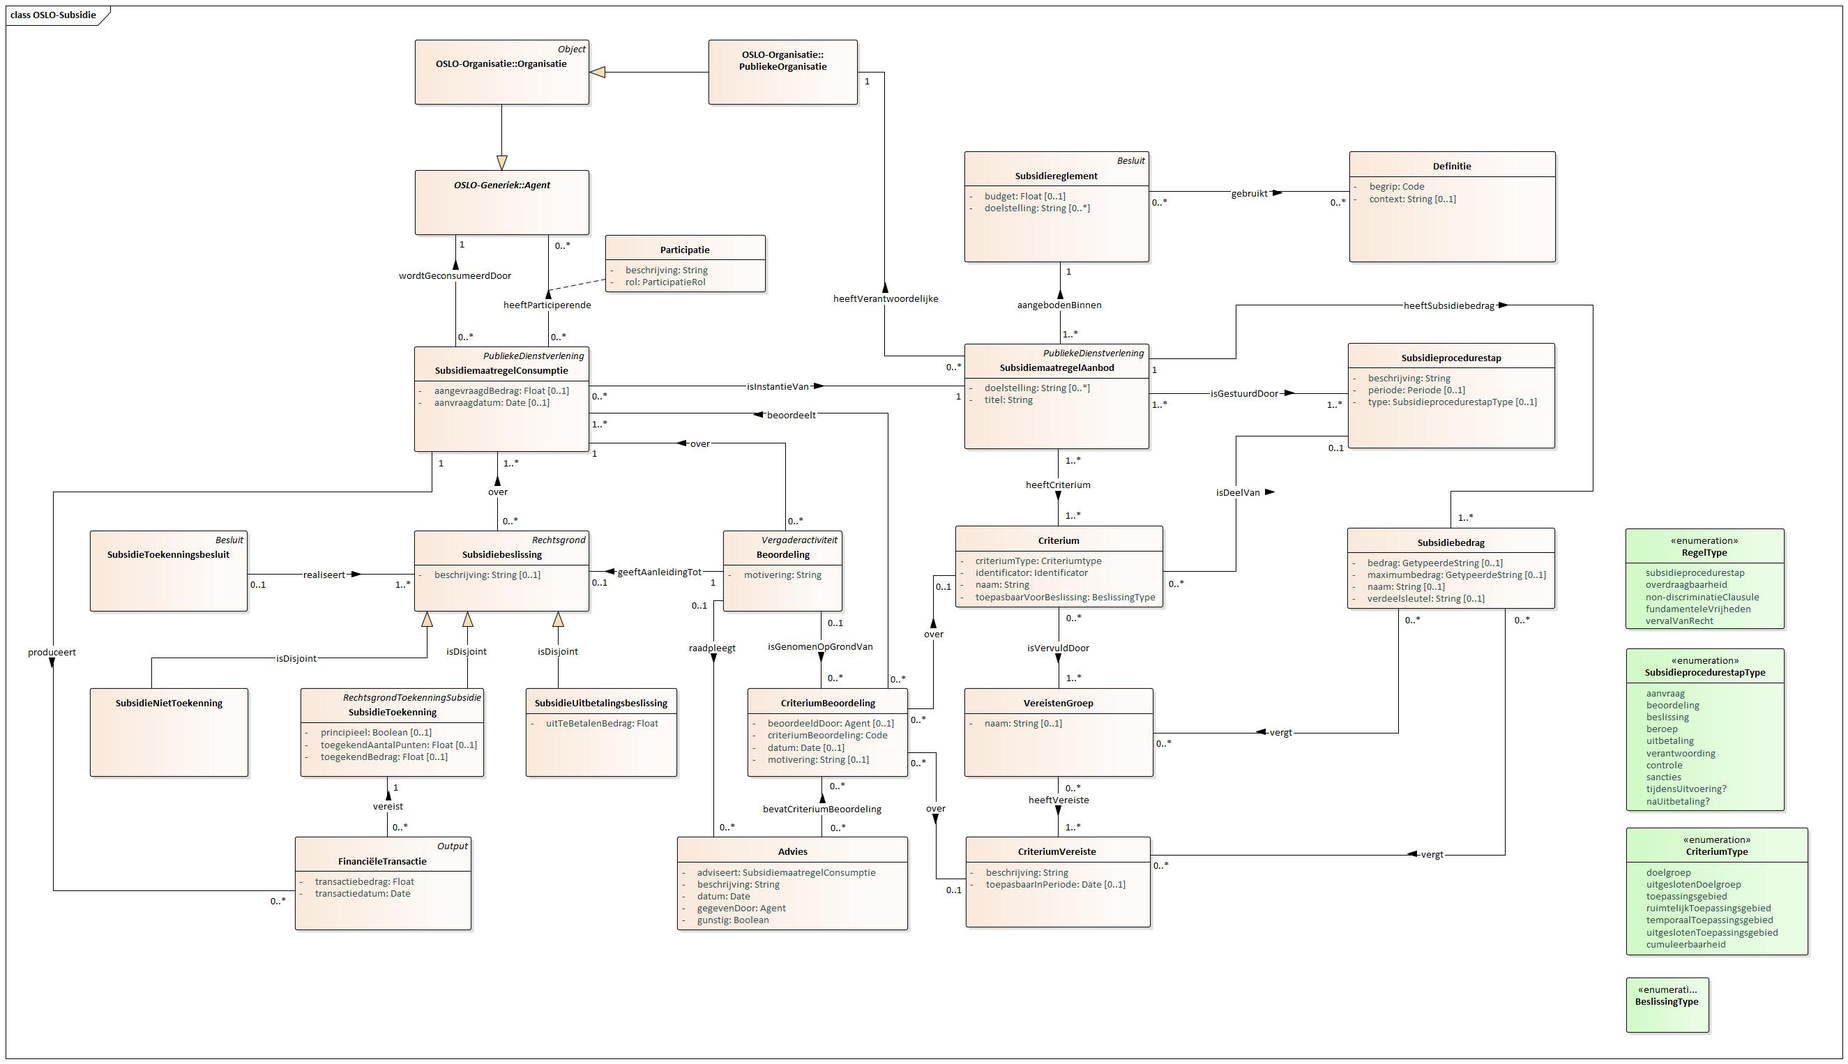
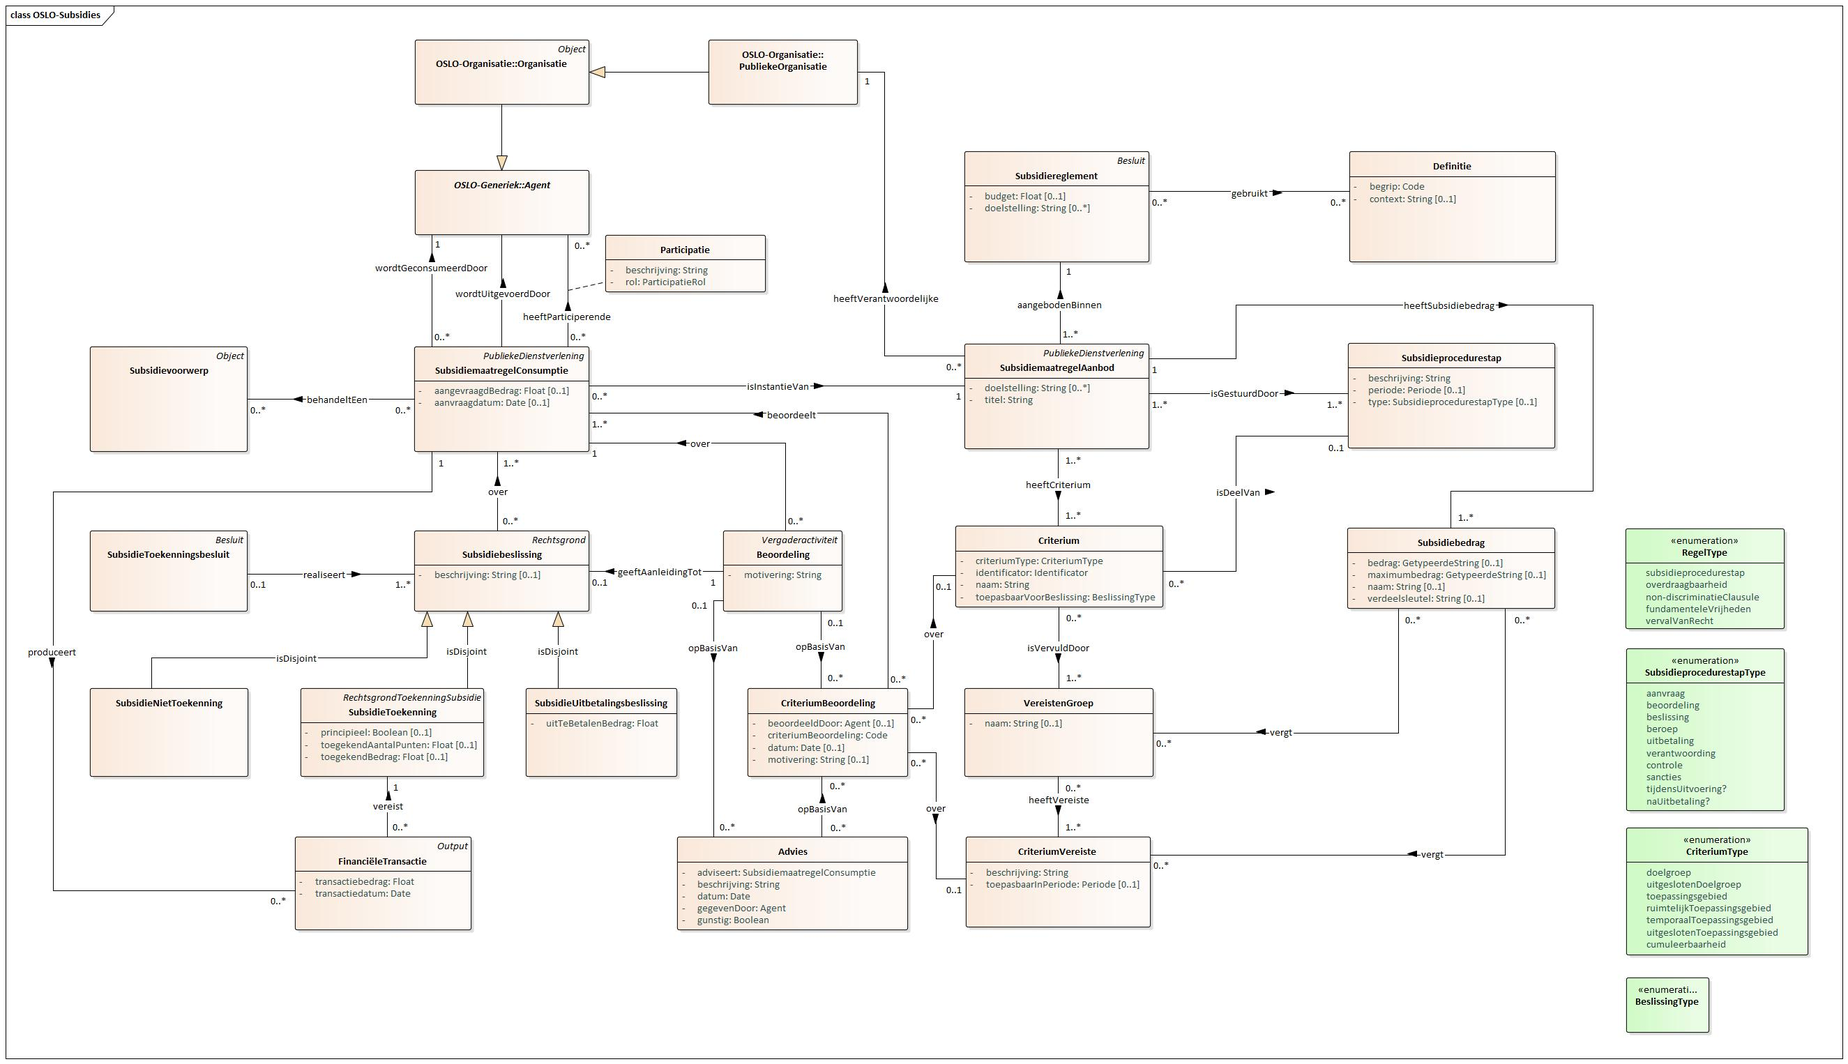
Updated stakeholders + opBasisVan

diff --git a/doc/applicatieprofiel/subsidies/index.html b/doc/applicatieprofiel/subsidies/index.html
@@ -48,7 +48,7 @@
               <div class="head" role="contentinfo" id="respecHeader">
                 <dl>
                   <dt>Laatste aanpassing</dt>
-                  <dd>2019-06-19</dd>
+                  <dd>2019-07-01</dd>
 
                   
                   
@@ -77,6 +77,15 @@
                   
                   
                   <dt>Editors</dt>
+                  
+                  <dd inlist="" rel="bibo:editor" class="p-author h-card vcard">
+                    <span typeof="foaf:Person">
+                      <span class="p-name fn" property="foaf:lastName">De Meester</span>,
+                      <span class="p-name fn" property="foaf:firstName">Anouk</span>
+                      - <a href="http://www.skryv.com" class="p-org org h-org h-card" rel="foaf:workplaceHomepage">Skryv</a>
+                      - <span class="ed_mailto"><a href="mailto:anouk.demeester@skryv.com" rel="foaf:mbox" class="u-email email">anouk.demeester@skryv.com</a></span>
+                    </span>
+                  </dd>
                   
                   <dd inlist="" rel="bibo:editor" class="p-author h-card vcard">
                     <span typeof="foaf:Person">
@@ -197,6 +206,7 @@
                       <a href="#Subsidieprocedurestap">Subsidieprocedurestap</a> |
                       <a href="#Subsidiereglement">Subsidiereglement</a> |
                       <a href="#Subsidietoekenning">Subsidietoekenning</a> |
+                      <a href="#Subsidievoorwerp">Subsidievoorwerp</a> |
                       <a href="#Vereistengroep">Vereistengroep</a> |
                     </p>
                   </div>
@@ -225,10 +235,10 @@
                     <dd>Voor deze entiteit zijn de volgende eigenschappen gedefinieerd:
                       <a href="#Advies%3Aadviseert">adviseert</a>, 
                       <a href="#Advies%3Abeschrijving">beschrijving</a>, 
-                      <a href="#Advies%3Abevat%20criteriumbeoordeling">bevat criteriumbeoordeling</a>, 
                       <a href="#Advies%3Adatum">datum</a>, 
                       <a href="#Advies%3Agegeven%20door">gegeven door</a>, 
-                      <a href="#Advies%3Agunstig">gunstig</a>.</dd>
+                      <a href="#Advies%3Agunstig">gunstig</a>, 
+                      <a href="#Advies%3Aop%20basis%20van">op basis van</a>.</dd>
                     
                   </dl>
                 </div>
@@ -276,20 +286,6 @@
                         <td></td>
                       </tr>
                     
-                      <tr id="Advies%3Abevat%20criteriumbeoordeling" typeof="rdfs:Property" resource="http://data.vlaanderen.be/ns/subsidies#bevatCriteriumBeoordeling">
-                        <td>
-                          <code property="rdfs:label">
-                            <a href="http://data.vlaanderen.be/ns/subsidies#bevatCriteriumBeoordeling" data-toggle="tooltip" data-content="http://data.vlaanderen.be/ns/subsidies#bevatCriteriumBeoordeling" data-placement="right">
-                            bevat criteriumbeoordeling</a>
-                          </code>
-                        </td>
-                        <td><a href="http://schema.org/Review" data-toggle="tooltip" data-content="http://schema.org/Review" data-placement="right">CriteriumBeoordeling</a></td>
-                        <td>0...*</td>
-                        <td property="rdfs:comment">Criteriumbeoordeling waarop het advies gestaafd is.</td>
-                        <td property="vann:usageNote"></td>
-                        <td></td>
-                      </tr>
-                    
                       <tr id="Advies%3Adatum" typeof="rdfs:Property" resource="http://data.vlaanderen.be/ns/subsidies#datum">
                         <td>
                           <code property="rdfs:label">
@@ -332,6 +328,20 @@
                         <td></td>
                       </tr>
                     
+                      <tr id="Advies%3Aop%20basis%20van" typeof="rdfs:Property" resource="http://data.vlaanderen.be/ns/subsidies#opBasisVan">
+                        <td>
+                          <code property="rdfs:label">
+                            <a href="http://data.vlaanderen.be/ns/subsidies#opBasisVan" data-toggle="tooltip" data-content="http://data.vlaanderen.be/ns/subsidies#opBasisVan" data-placement="right">
+                            op basis van</a>
+                          </code>
+                        </td>
+                        <td><a href="http://www.w3.org/2000/01/rdf-schema#Resource" data-toggle="tooltip" data-content="http://www.w3.org/2000/01/rdf-schema#Resource" data-placement="right">CriteriumBeoordeling</a></td>
+                        <td>0...*</td>
+                        <td property="rdfs:comment">Criteriumbeoordeling waarop het advies is gestaafd.</td>
+                        <td property="vann:usageNote"></td>
+                        <td></td>
+                      </tr>
+                    
                     </tbody>
                   </table>
                 </div>
@@ -357,16 +367,16 @@
               <h3 class="h3" id="Beoordeling"><a href="http://data.vlaanderen.be/ns/subsidies#Beoordeling" data-toggle="tooltip" data-content="http://data.vlaanderen.be/ns/subsidies#Beoordeling" data-placement="right">Beoordeling</a></h3>
                 <div class="region region--no-space-top">
                   <dl>
-                    <dt>Beschrijving</dt><dd>De motivering van de subsidiebeslissing, eventueel op basis van criteriumbeoordelingen.</dd>
+                    <dt>Beschrijving</dt><dd>De motivering van de subsidiebeslissing, gebaseerd op criteriumbeoordelingen en adviezen.</dd>
                     
                     <dt>Eigenschappen</dt>
                     
                     <dd>Voor deze entiteit zijn de volgende eigenschappen gedefinieerd:
                       <a href="#Beoordeling%3Ageeft%20aanleiding%20tot">geeft aanleiding tot</a>, 
-                      <a href="#Beoordeling%3Ais%20genomen%20op%20grond%20van">is genomen op grond van</a>, 
                       <a href="#Beoordeling%3Amotivering">motivering</a>, 
-                      <a href="#Beoordeling%3Aover">over</a>, 
-                      <a href="#Beoordeling%3Araadpleegt">raadpleegt</a>.</dd>
+                      <a href="#Beoordeling%3Aop%20basis%20van">op basis van</a>, 
+                      <a href="#Beoordeling%3Aop%20basis%20van">op basis van</a>, 
+                      <a href="#Beoordeling%3Aover">over</a>.</dd>
                     
                   </dl>
                 </div>
@@ -400,20 +410,6 @@
                         <td></td>
                       </tr>
                     
-                      <tr id="Beoordeling%3Ais%20genomen%20op%20grond%20van" typeof="rdfs:Property" resource="http://data.vlaanderen.be/ns/subsidies#isGenomenOpGrondVan">
-                        <td>
-                          <code property="rdfs:label">
-                            <a href="http://data.vlaanderen.be/ns/subsidies#isGenomenOpGrondVan" data-toggle="tooltip" data-content="http://data.vlaanderen.be/ns/subsidies#isGenomenOpGrondVan" data-placement="right">
-                            is genomen op grond van</a>
-                          </code>
-                        </td>
-                        <td><a href="http://schema.org/Review" data-toggle="tooltip" data-content="http://schema.org/Review" data-placement="right">CriteriumBeoordeling</a></td>
-                        <td>0...*</td>
-                        <td property="rdfs:comment">De criteriumbeoordelingen waarop men zich gebaseerd heeft om de beoordeling te vormen.</td>
-                        <td property="vann:usageNote"></td>
-                        <td></td>
-                      </tr>
-                    
                       <tr id="Beoordeling%3Amotivering" typeof="rdfs:Property" resource="http://data.vlaanderen.be/ns/subsidies#motivering">
                         <td>
                           <code property="rdfs:label">
@@ -428,30 +424,44 @@
                         <td></td>
                       </tr>
                     
-                      <tr id="Beoordeling%3Aover" typeof="rdfs:Property" resource="http://data.vlaanderen.be/ns/subsidies#over">
+                      <tr id="Beoordeling%3Aop%20basis%20van" typeof="rdfs:Property" resource="http://data.vlaanderen.be/ns/subsidies#opBasisVan">
                         <td>
                           <code property="rdfs:label">
-                            <a href="http://data.vlaanderen.be/ns/subsidies#over" data-toggle="tooltip" data-content="http://data.vlaanderen.be/ns/subsidies#over" data-placement="right">
+                            <a href="http://data.vlaanderen.be/ns/subsidies#opBasisVan" data-toggle="tooltip" data-content="http://data.vlaanderen.be/ns/subsidies#opBasisVan" data-placement="right">
+                            op basis van</a>
+                          </code>
+                        </td>
+                        <td><a href="http://www.w3.org/2000/01/rdf-schema#Resource" data-toggle="tooltip" data-content="http://www.w3.org/2000/01/rdf-schema#Resource" data-placement="right">CriteriumBeoordeling</a></td>
+                        <td>0...*</td>
+                        <td property="rdfs:comment">De criteriumbeoordelingen waarop men zich gebaseerd heeft om de beoordeling te vormen.</td>
+                        <td property="vann:usageNote"></td>
+                        <td></td>
+                      </tr>
+                    
+                      <tr id="Beoordeling%3Aop%20basis%20van" typeof="rdfs:Property" resource="http://data.vlaanderen.be/ns/subsidies#opBasisVan">
+                        <td>
+                          <code property="rdfs:label">
+                            <a href="http://data.vlaanderen.be/ns/subsidies#opBasisVan" data-toggle="tooltip" data-content="http://data.vlaanderen.be/ns/subsidies#opBasisVan" data-placement="right">
+                            op basis van</a>
+                          </code>
+                        </td>
+                        <td><a href="http://www.w3.org/2000/01/rdf-schema#Resource" data-toggle="tooltip" data-content="http://www.w3.org/2000/01/rdf-schema#Resource" data-placement="right">Advies</a></td>
+                        <td>0...*</td>
+                        <td property="rdfs:comment">Het advies dat men in beraadslaging heeft genomen om de beoordeling te vormen.</td>
+                        <td property="vann:usageNote"></td>
+                        <td></td>
+                      </tr>
+                    
+                      <tr id="Beoordeling%3Aover" typeof="rdfs:Property" resource="http://schema.org/about">
+                        <td>
+                          <code property="rdfs:label">
+                            <a href="http://schema.org/about" data-toggle="tooltip" data-content="http://schema.org/about" data-placement="right">
                             over</a>
                           </code>
                         </td>
                         <td><a href="http://data.vlaanderen.be/ns/subsidies#SubsidiemaatregelConsumptie" data-toggle="tooltip" data-content="http://data.vlaanderen.be/ns/subsidies#SubsidiemaatregelConsumptie" data-placement="right">SubsidiemaatregelConsumptie</a></td>
                         <td>1</td>
                         <td property="rdfs:comment">De consumptie die beoordeeld wordt.</td>
-                        <td property="vann:usageNote"></td>
-                        <td></td>
-                      </tr>
-                    
-                      <tr id="Beoordeling%3Araadpleegt" typeof="rdfs:Property" resource="http://data.vlaanderen.be/ns/subsidies#raadpleegt">
-                        <td>
-                          <code property="rdfs:label">
-                            <a href="http://data.vlaanderen.be/ns/subsidies#raadpleegt" data-toggle="tooltip" data-content="http://data.vlaanderen.be/ns/subsidies#raadpleegt" data-placement="right">
-                            raadpleegt</a>
-                          </code>
-                        </td>
-                        <td><a href="http://data.vlaanderen.be/ns/subsidies#Advies" data-toggle="tooltip" data-content="http://data.vlaanderen.be/ns/subsidies#Advies" data-placement="right">Advies</a></td>
-                        <td>0...*</td>
-                        <td property="rdfs:comment">Het advies dat men in beraadslaging heeft genomen om de beoordeling te vormen.</td>
                         <td property="vann:usageNote"></td>
                         <td></td>
                       </tr>
@@ -503,7 +513,7 @@
                             criteriumtype</a>
                           </code>
                         </td>
-                        <td><a href="" data-toggle="tooltip" data-content="" data-placement="right">Criteriumtype</a></td>
+                        <td><a href="http://www.w3.org/2004/02/skos/core#Concept" data-toggle="tooltip" data-content="http://www.w3.org/2004/02/skos/core#Concept" data-placement="right">CriteriumType</a></td>
                         <td>1</td>
                         <td property="rdfs:comment">Het type van het criterium. Deze wordt bepaald door een gecontroleerd vocabularium.</td>
                         <td property="vann:usageNote">Bijvoorbeeld: &lt;doelgroep&gt;.</td>
@@ -698,9 +708,9 @@
                             over</a>
                           </code>
                         </td>
-                        <td><a href="http://data.vlaanderen.be/ns/subsidies#Criterium" data-toggle="tooltip" data-content="http://data.vlaanderen.be/ns/subsidies#Criterium" data-placement="right">Criterium</a></td>
+                        <td><a href="http://data.vlaanderen.be/ns/subsidies#CriteriumVereiste" data-toggle="tooltip" data-content="http://data.vlaanderen.be/ns/subsidies#CriteriumVereiste" data-placement="right">CriteriumVereiste</a></td>
                         <td>0...1</td>
-                        <td property="rdfs:comment">Criterium of criteriumvereiste waarop de consumptie beoordeeld wordt.</td>
+                        <td property="rdfs:comment">Criteriumvereiste waarop de consumptie beoordeeld wordt.</td>
                         <td property="vann:usageNote"></td>
                         <td></td>
                       </tr>
@@ -712,9 +722,9 @@
                             over</a>
                           </code>
                         </td>
-                        <td><a href="http://data.vlaanderen.be/ns/subsidies#CriteriumVereiste" data-toggle="tooltip" data-content="http://data.vlaanderen.be/ns/subsidies#CriteriumVereiste" data-placement="right">CriteriumVereiste</a></td>
+                        <td><a href="http://data.vlaanderen.be/ns/subsidies#Criterium" data-toggle="tooltip" data-content="http://data.vlaanderen.be/ns/subsidies#Criterium" data-placement="right">Criterium</a></td>
                         <td>0...1</td>
-                        <td property="rdfs:comment">Criterium of criteriumvereiste waarop de consumptie beoordeeld wordt.</td>
+                        <td property="rdfs:comment">Criterium waarop de consumptie beoordeeld wordt.</td>
                         <td property="vann:usageNote"></td>
                         <td></td>
                       </tr>
@@ -776,7 +786,7 @@
                             toepasbaar in periode</a>
                           </code>
                         </td>
-                        <td><a href="http://www.w3.org/2001/XMLSchema#date" data-toggle="tooltip" data-content="http://www.w3.org/2001/XMLSchema#date" data-placement="right">Date</a></td>
+                        <td><a href="" data-toggle="tooltip" data-content="" data-placement="right">Periode</a></td>
                         <td>0...1</td>
                         <td property="rdfs:comment">Het expliciete tijdsvenster waarin voldaan kan worden aan de criteriumvereiste.</td>
                         <td property="vann:usageNote">Bv.: De aanvraag is mogelijk van 1 april 2019 tot 31 december 2019.</td>
@@ -842,7 +852,7 @@
                         </td>
                         <td><a href="http://www.w3.org/2001/XMLSchema#string" data-toggle="tooltip" data-content="http://www.w3.org/2001/XMLSchema#string" data-placement="right">String</a></td>
                         <td>0...1</td>
-                        <td property="rdfs:comment">TODO</td>
+                        <td property="rdfs:comment">Omschrijving van hoe het begrip wordt toegepast binnen een specifiek subsidiereglement.</td>
                         <td property="vann:usageNote"></td>
                         <td></td>
                       </tr>
@@ -1528,7 +1538,7 @@
                         </td>
                         <td><a href="http://data.vlaanderen.be/ns/subsidies#Subsidiereglement" data-toggle="tooltip" data-content="http://data.vlaanderen.be/ns/subsidies#Subsidiereglement" data-placement="right">Subsidiereglement</a></td>
                         <td>1</td>
-                        <td property="rdfs:comment">Het subsidiereglement waarin de subsidiemaatregel staat beschreven.</td>
+                        <td property="rdfs:comment">Het formeel kader (i.e. het besluit) waarbinnen de subsidiemaatregel werkt en waaraan ze haar wettelijke basis ontleent.</td>
                         <td property="vann:usageNote"></td>
                         <td></td>
                       </tr>
@@ -1620,8 +1630,10 @@
                     <dd>Voor deze entiteit zijn de volgende eigenschappen gedefinieerd:
                       <a href="#Subsidiemaatregel%20Consumptie%3Aaangevraagd%20bedrag">aangevraagd bedrag</a>, 
                       <a href="#Subsidiemaatregel%20Consumptie%3Aaanvraagdatum">aanvraagdatum</a>, 
+                      <a href="#Subsidiemaatregel%20Consumptie%3Abehandelt%20een">behandelt een</a>, 
                       <a href="#Subsidiemaatregel%20Consumptie%3Ais%20instantie%20van">is instantie van</a>, 
-                      <a href="#Subsidiemaatregel%20Consumptie%3Aproduceert">produceert</a>.</dd>
+                      <a href="#Subsidiemaatregel%20Consumptie%3Aproduceert">produceert</a>, 
+                      <a href="#Subsidiemaatregel%20Consumptie%3Awordt%20uitgevoerd%20door">wordt uitgevoerd door</a>.</dd>
                     
                   </dl>
                 </div>
@@ -1669,6 +1681,20 @@
                         <td></td>
                       </tr>
                     
+                      <tr id="Subsidiemaatregel%20Consumptie%3Abehandelt%20een" typeof="rdfs:Property" resource="http://data.vlaanderen.be/ns/subsidies#behandeltEen">
+                        <td>
+                          <code property="rdfs:label">
+                            <a href="http://data.vlaanderen.be/ns/subsidies#behandeltEen" data-toggle="tooltip" data-content="http://data.vlaanderen.be/ns/subsidies#behandeltEen" data-placement="right">
+                            behandelt een</a>
+                          </code>
+                        </td>
+                        <td><a href="http://data.vlaanderen.be/ns/subsidies#Subsidievoorwerp" data-toggle="tooltip" data-content="http://data.vlaanderen.be/ns/subsidies#Subsidievoorwerp" data-placement="right">Subsidievoorwerp</a></td>
+                        <td>0...*</td>
+                        <td property="rdfs:comment">Het voorwerp dat al dan niet gesubsidieerd wordt met de consumptie.</td>
+                        <td property="vann:usageNote"></td>
+                        <td></td>
+                      </tr>
+                    
                       <tr id="Subsidiemaatregel%20Consumptie%3Ais%20instantie%20van" typeof="rdfs:Property" resource="http://data.vlaanderen.be/ns/subsidies#isInstantieVan">
                         <td>
                           <code property="rdfs:label">
@@ -1693,6 +1719,20 @@
                         <td><a href="http://data.vlaanderen.be/ns/subsidies#FinanciëleTransactie" data-toggle="tooltip" data-content="http://data.vlaanderen.be/ns/subsidies#FinanciëleTransactie" data-placement="right">FinanciëleTransactie</a></td>
                         <td>0...*</td>
                         <td property="rdfs:comment">Het werkelijke resultaat van de consumptie van de subsidiemaatregel.</td>
+                        <td property="vann:usageNote"></td>
+                        <td></td>
+                      </tr>
+                    
+                      <tr id="Subsidiemaatregel%20Consumptie%3Awordt%20uitgevoerd%20door" typeof="rdfs:Property" resource="http://data.europa.eu/m8g/serviceProvider">
+                        <td>
+                          <code property="rdfs:label">
+                            <a href="http://data.europa.eu/m8g/serviceProvider" data-toggle="tooltip" data-content="http://data.europa.eu/m8g/serviceProvider" data-placement="right">
+                            wordt uitgevoerd door</a>
+                          </code>
+                        </td>
+                        <td><a href="http://purl.org/dc/terms/Agent" data-toggle="tooltip" data-content="http://purl.org/dc/terms/Agent" data-placement="right">Agent</a></td>
+                        <td></td>
+                        <td property="rdfs:comment">De agent die de publieke dienstverlening verstrekt.</td>
                         <td property="vann:usageNote"></td>
                         <td></td>
                       </tr>
@@ -1938,6 +1978,23 @@
                   </table>
                 </div>
       			  
+            </div>
+            
+            <div class="region region--no-space-top">
+              <h3 class="h3" id="Subsidievoorwerp"><a href="http://data.vlaanderen.be/ns/subsidies#Subsidievoorwerp" data-toggle="tooltip" data-content="http://data.vlaanderen.be/ns/subsidies#Subsidievoorwerp" data-placement="right">Subsidievoorwerp</a></h3>
+                <div class="region region--no-space-top">
+                  <dl>
+                    <dt>Beschrijving</dt><dd>Het object waarop de subsidiemaatregel-consumptie betrekking heeft.</dd>
+                    
+                    <dt>Gebruik</dt><dd>Bv.: Een huis, een installatie, een persoon, een evenement, etc.</dd>
+                    
+                    <dt>Eigenschappen</dt>
+                    
+                    <dd>Voor deze entiteit zijn geen eigenschappen gedefinieerd.</dd>
+                    
+                  </dl>
+                </div>
+                
             </div>
             
             <div class="region region--no-space-top">
